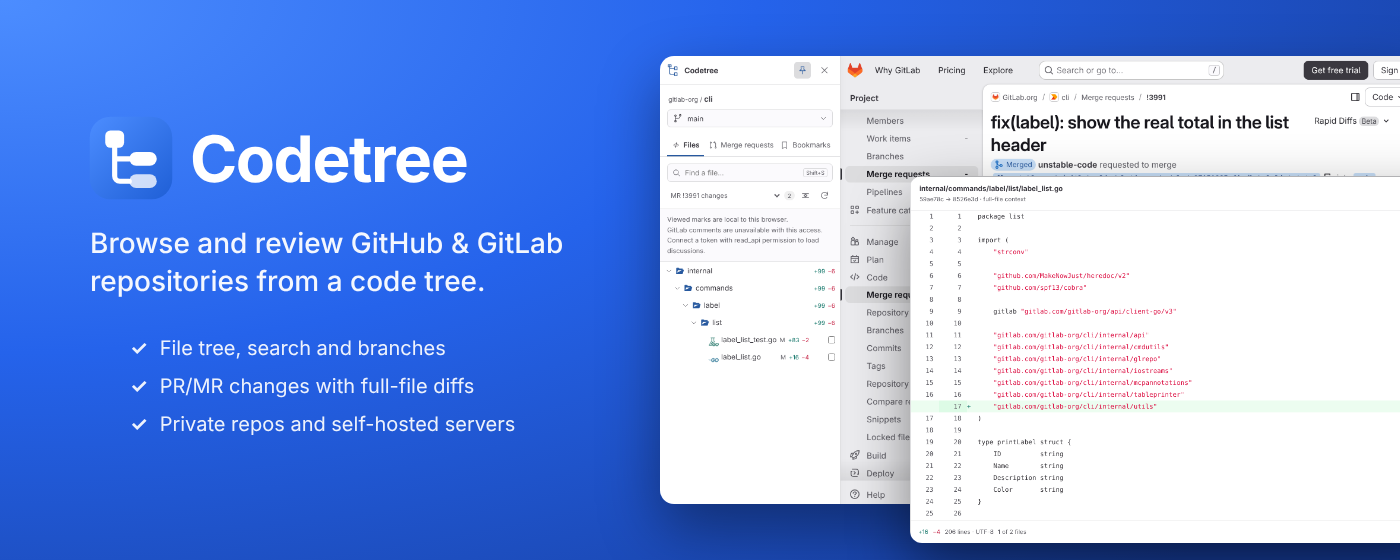
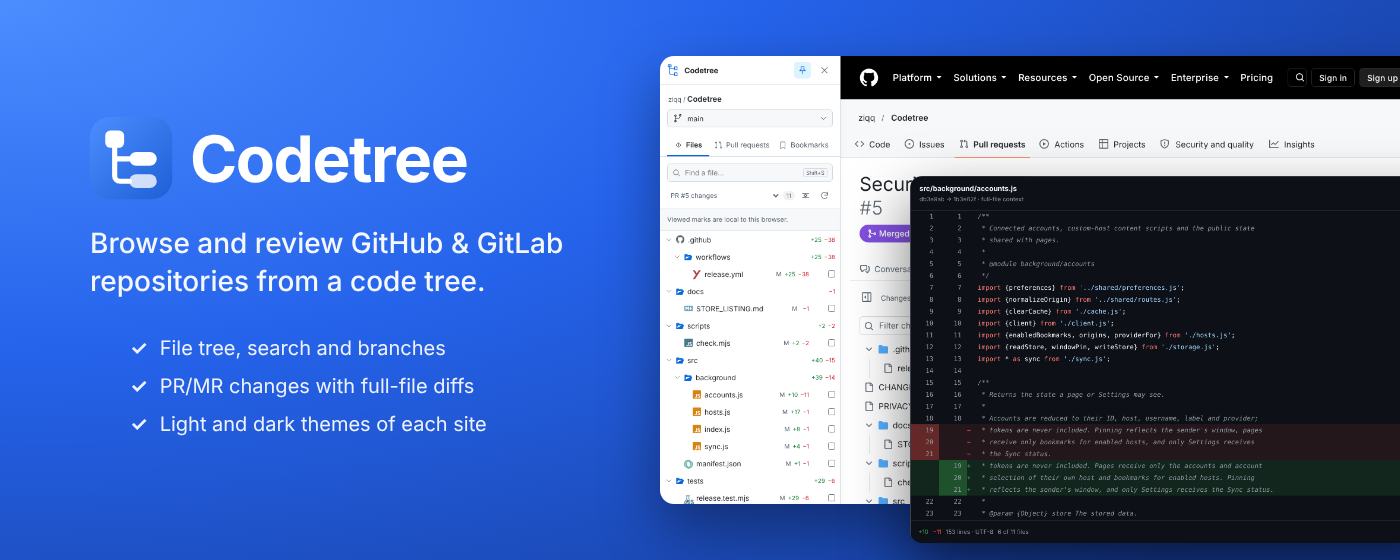
docs: add split light/dark store screenshots and promo tiles

diff --git a/docs/STORE_LISTING.md b/docs/STORE_LISTING.md
@@ -52,18 +52,18 @@ Codetree is source-available: https://github.com/ziqq/Codetree
 
 ### Graphics
 
-All files are in `docs/store/`. Screenshots are captures of the built extension on public pages (the Codetree repository on GitHub and `gitlab-org/cli` on GitLab), without an account or private data. Every scene exists in `screenshots/light/` and `screenshots/dark/` with the same page, window size and actions; upload one theme set (the store accepts up to five screenshots).
+All files are in `docs/store/`. Screenshots are captures of the built extension on public pages (the Codetree repository on GitHub and `gitlab-org/cli` on GitLab), without an account or private data. Every scene is captured in `screenshots/light/` and `screenshots/dark/` with the same page, window size and actions. The uploaded `screenshots/split/` frames join each pair along a slanted seam (light above, dark below), so the store's five screenshots show both themes.
 
 | Field | File | Size |
 | --- | --- | --- |
 | Store icon | `store-icon-128.png` (source `icon.svg`) | 128×128, 96×96 artwork with 16 px transparent padding |
-| Screenshot 1 | `screenshots/<theme>/1-github-tree.png`: GitHub repository tree with file-icons | 1280×800 |
-| Screenshot 2 | `screenshots/<theme>/2-github-changes.png`: GitHub pull request changes tree | 1280×800 |
-| Screenshot 3 | `screenshots/<theme>/3-github-full-file.png`: GitHub full-file diff from **View full** | 1280×800 |
-| Screenshot 4 | `screenshots/<theme>/4-gitlab-changes.png`: GitLab merge request changes tree | 1280×800 |
-| Screenshot 5 | `screenshots/<theme>/5-settings.png`: Settings | 1280×800 |
-| Small promo tile | `promo-small-440x280.png` | 440×280 |
-| Marquee promo tile | `promo-marquee-1400x560.png` | 1400×560 |
+| Screenshot 1 | `screenshots/split/1-github-tree.png`: GitHub repository tree with file-icons | 1280×800 |
+| Screenshot 2 | `screenshots/split/2-github-changes.png`: GitHub pull request changes tree | 1280×800 |
+| Screenshot 3 | `screenshots/split/3-github-full-file.png`: GitHub full-file diff from **View full** | 1280×800 |
+| Screenshot 4 | `screenshots/split/4-gitlab-changes.png`: GitLab merge request changes tree | 1280×800 |
+| Screenshot 5 | `screenshots/split/5-settings.png`: Settings | 1280×800 |
+| Small promo tile | `promo-small-440x280.png`: light and dark sidebars | 440×280 |
+| Marquee promo tile | `promo-marquee-1400x560.png`: light pull request changes with the dark **View full** dialog | 1400×560 |
 
 Screenshots and promo images are 24-bit PNGs without transparency. Screenshots must not show private repositories, tokens or other extensions.
 
